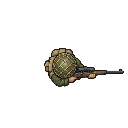
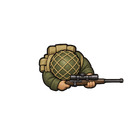
Enlarge sniper body and strengthen its scope and helmet silhouette

Changed region(s): [[0.2812, 0.3125, 0.9688, 0.7188]]

diff --git a/docs/art/NOTES.md b/docs/art/NOTES.md
@@ -6,6 +6,19 @@ reason), questions for the owner, and anything the integration phase
 ([todos/PHASE16-miniatures.md](../../todos/PHASE16-miniatures.md)) must know (e.g. a figure that
 needed a different `fitPx`).
 
+## 2026-11-17 — correct the undersized sniper
+
+The first normalization shrank the entire sniper to accommodate its long rifle, leaving its
+helmet and shoulders too small next to the rifleman. Redrew both sniper factions with a larger
+body, broader helmet netting and a prominent scope. Recentered on the helmet pivot and kept the
+existing 128×128 canvas, 100 px fit, base and renderer scale. The enemy repaint shares the ally
+alpha mask, avoiding a silhouette jump. Transparent margins still pass the art checker.
+
+Inspected rotation and both swarm sheets at game size. The sniper now has a comparable body
+presence to the other infantry; its long scoped rifle and netted helmet distinguish it from
+the plain rifleman and wide shield. Art remains strictly overhead. The two existing rifleman/
+fallen faction-contour warnings are unchanged.
+
 ## 2026-11-17 — pilot enabled in game at the owner's request
 
 The 17 pilot files are now registered and used by the main renderer for Rifleman/Sniper/Shield,
